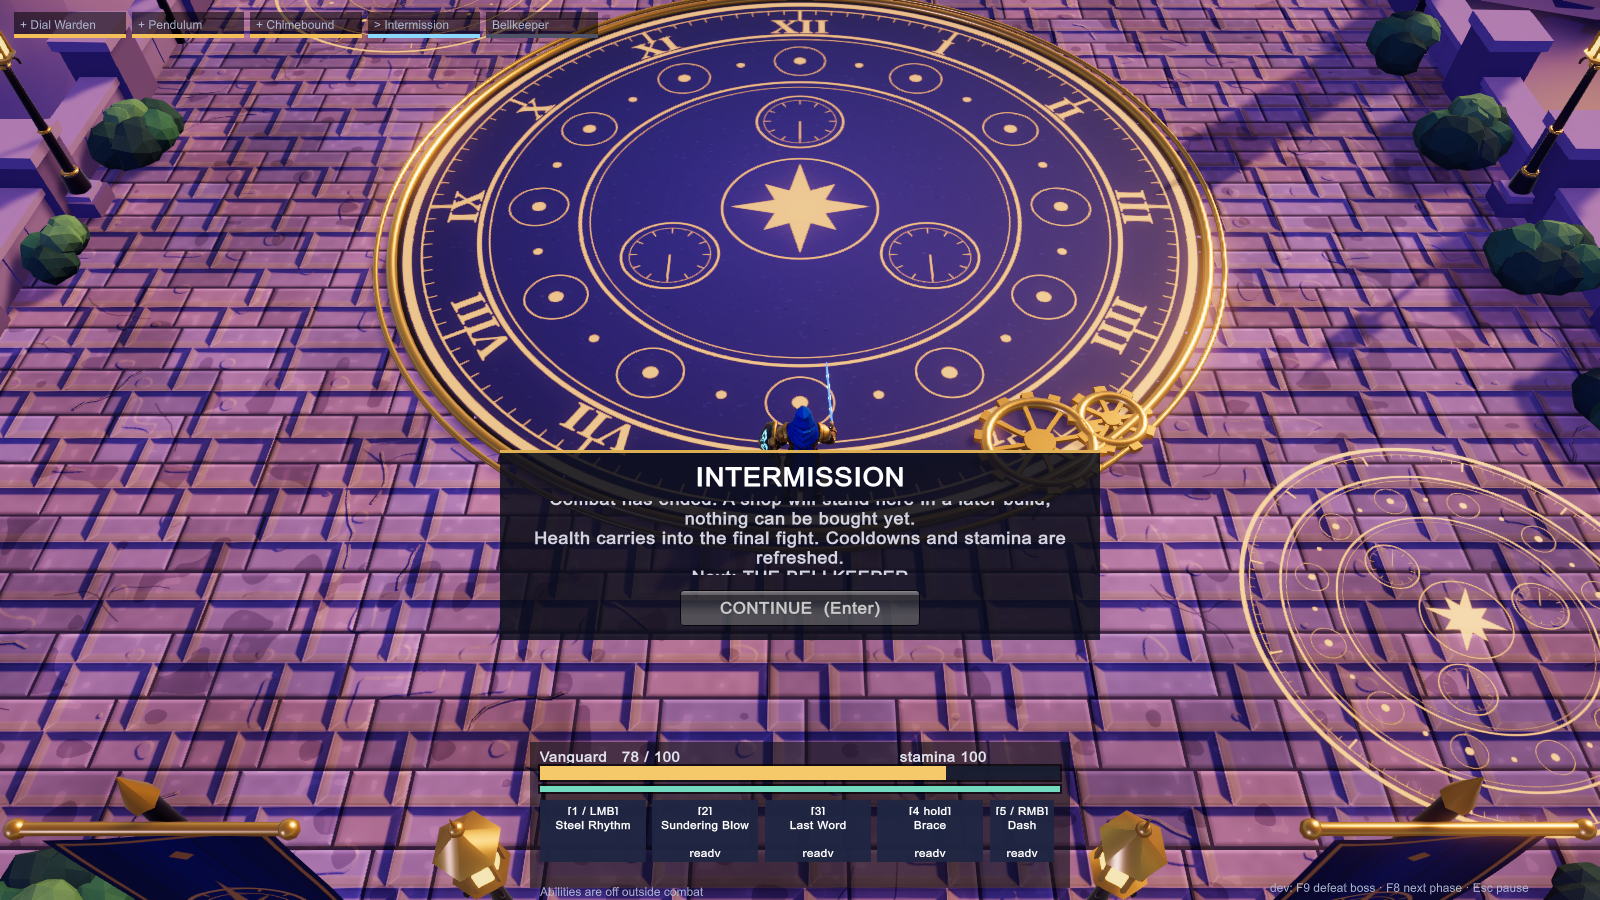
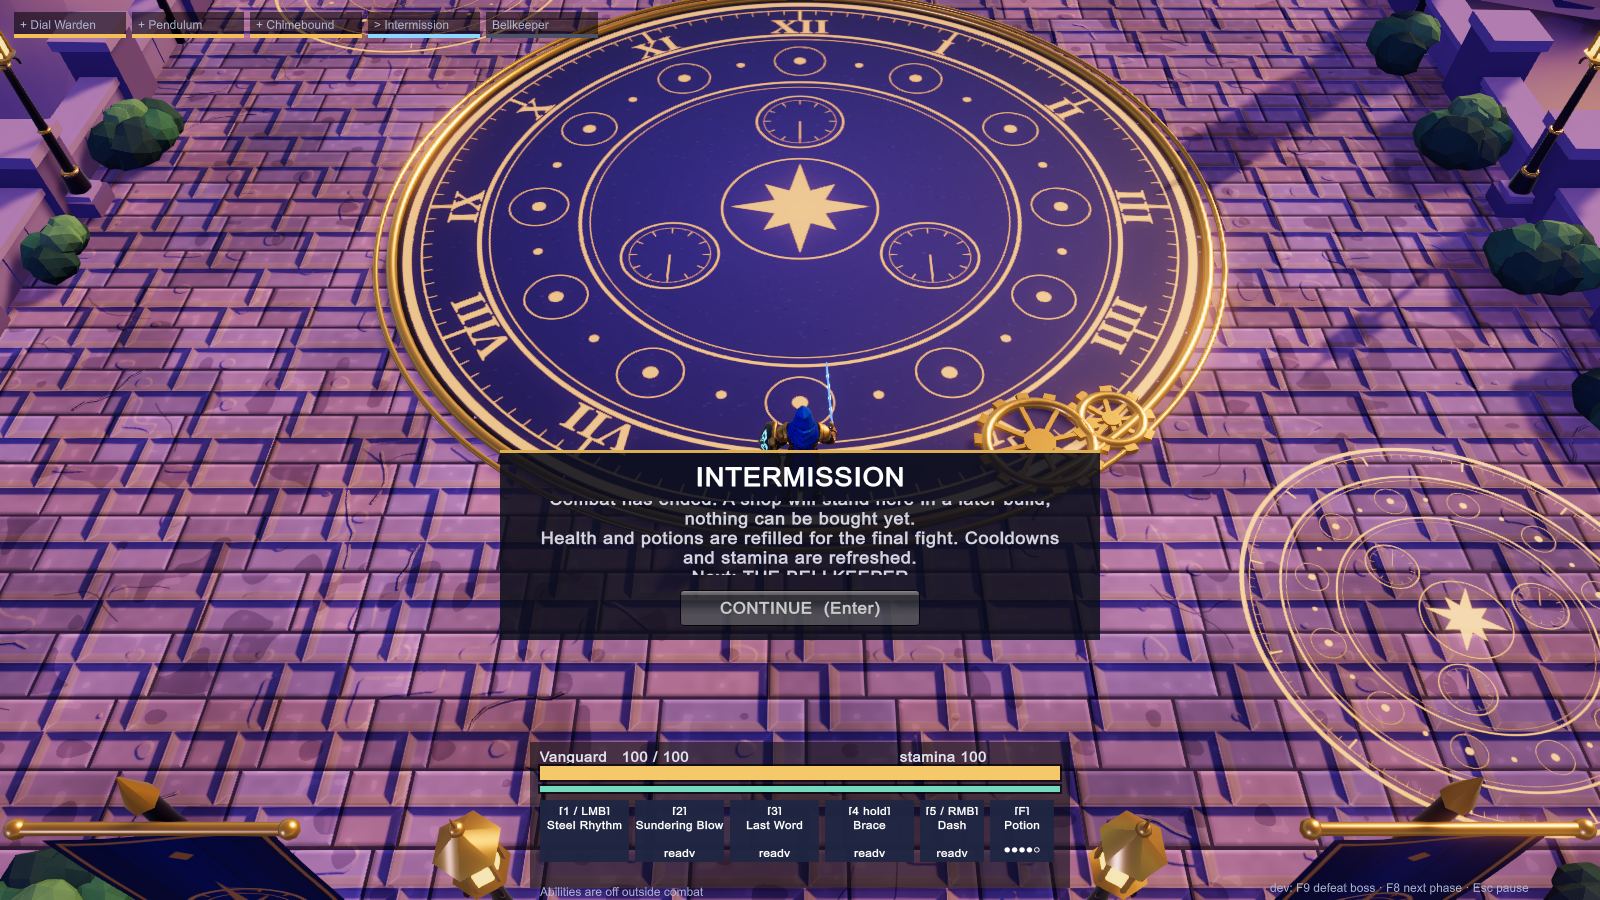
Run loop: potions and the health policy (refill health each boss, potions carry, both refill for the final boss)
Chzy18's decision, Oct 21: dodging does not grant immunity (no change). Health refills before every boss after the
first; potions (F, +40 HP, 1 s lockout, 5) carry over between minibosses; health and potions refill before the
area's final boss. HUD potion slot and tooltip, menu/intermission text, autotest checks (88/88 in the Windows build).

diff --git a/unity/Assets/LastBell/Run/RunHud.cs b/unity/Assets/LastBell/Run/RunHud.cs
@@ -98,7 +98,7 @@ namespace LastBell.Run
                 {
                     var r = Panel(560, 150, h * 0.62f);
                     GUI.Label(new Rect(r.x, r.y + 10, r.width, 34), d.Mode == RunMode.Practice ? "PRACTICE — " + RunDirector.SlotNames[SlotIndex(d.Encounter)] : "PREPARATION", big);
-                    GUI.Label(new Rect(r.x + 20, r.y + 46, r.width - 40, 44), d.Mode == RunMode.Practice ? "Practice never advances the run." : "Three minibosses, an intermission, then the Bellkeeper. Health carries between fights. Move around freely.", mid);
+                    GUI.Label(new Rect(r.x + 20, r.y + 46, r.width - 40, 44), d.Mode == RunMode.Practice ? "Practice never advances the run." : "Three minibosses, an intermission, then the Bellkeeper. Health refills before each boss; potions carry over until the final boss refills them.", mid);
                     if (GUI.Button(new Rect(r.x + r.width / 2 - 110, r.y + 98, 220, 36), "READY  (Enter)", btn)) d.RequestReady();
                     break;
                 }
@@ -125,7 +125,7 @@ namespace LastBell.Run
                 {
                     var r = Panel(600, 190, h * 0.5f);
                     GUI.Label(new Rect(r.x, r.y + 10, r.width, 34), "INTERMISSION", big);
-                    GUI.Label(new Rect(r.x + 20, r.y + 48, r.width - 40, 80), "Combat has ended. A shop will stand here in a later build; nothing can be bought yet.\nHealth carries into the final fight. Cooldowns and stamina are refreshed.\nNext: THE BELLKEEPER", mid);
+                    GUI.Label(new Rect(r.x + 20, r.y + 48, r.width - 40, 80), "Combat has ended. A shop will stand here in a later build; nothing can be bought yet.\nHealth and potions are refilled for the final fight. Cooldowns and stamina are refreshed.\nNext: THE BELLKEEPER", mid);
                     if (GUI.Button(new Rect(r.x + r.width / 2 - 120, r.y + 140, 240, 36), "CONTINUE  (Enter)", btn)) d.RequestContinue();
                     break;
                 }
@@ -166,8 +166,8 @@ namespace LastBell.Run
             for (int i = 0; i < 4; i++)
                 if (GUI.Button(new Rect(r.x + 30 + i * 166, r.y + 300, 160, 36), names[i], btn)) d.StartPractice(RunDirector.Classes[menuClass], i);
             GUI.Label(new Rect(r.x + 30, r.y + 350, r.width - 60, 120),
-                "Controls: WASD move · mouse aims · 1 / LMB basic · 2 3 4 class actions · 6 Mending Chorus (Chimesinger) · 5 / RMB dash · Space jump · Shift sprint · Esc pause\n" +
-                "Movement stamina: sprint, jump and dash share one bar. No invincibility frames. Health carries across the run; retry restarts at the first miniboss.\n" +
+                "Controls: WASD move · mouse aims · 1 / LMB basic · 2 3 4 class actions · 6 Mending Chorus (Chimesinger) · 5 / RMB dash · F potion · Space jump · Shift sprint · Esc pause\n" +
+                "Movement stamina: sprint, jump and dash share one bar. No invincibility frames (dodging does not make you immune). F drinks a potion (+40 HP).\nHealth refills before each boss; potions carry over between minibosses and refill before the final boss. Retry restarts at the first miniboss.\n" +
                 "Minibosses are labelled stand-ins; the Bellkeeper uses its model. Dev keys in combat: F9 defeat boss, F8 next phase.", tiny);
             if (GUI.Button(new Rect(r.x + r.width - 130, r.y + r.height - 50, 100, 36), "Quit", btn)) Application.Quit();
         }
@@ -253,7 +253,7 @@ namespace LastBell.Run
             Bar(new Rect(x, y + 16, pw, 14), (float)p.Hp / PlayerController.MaxHp, new Color(0.96f, 0.79f, 0.41f));
             Bar(new Rect(x, y + 36, pw, 6), p.Stamina / PlayerController.MaxStamina, new Color(0.45f, 0.85f, 0.75f));
             GUI.Label(new Rect(x + pw - 160, y - 4, 160, 20), "stamina " + Mathf.RoundToInt(p.Stamina), small);
-            var k = p.Kit; int n = k.SlotNames.Length; float sw = (pw - (n) * 6 - 70) / n; int hover = -1;
+            var k = p.Kit; int n = k.SlotNames.Length; float sw = (pw - (n) * 6 - 140) / n; int hover = -1;
             for (int i = 0; i < n; i++)
             {
                 var r = new Rect(x + i * (sw + 6), y + 50, sw, 62);
@@ -270,11 +270,17 @@ namespace LastBell.Run
             GUI.Label(new Rect(dr.x, dr.y + 2, dr.width, 16), "[5 / RMB]", slot);
             GUI.Label(new Rect(dr.x, dr.y + 16, dr.width, 30), p.ClassName == "Chimesinger" ? "Harmonic Step" : "Dash", slot);
             GUI.Label(new Rect(dr.x, dr.y + 44, dr.width, 16), p.Stamina >= PlayerController.DashCost ? "ready" : "stamina", slot);
+            var pr = new Rect(dr.x + 70, y + 50, 64, 62);
+            Rect(pr, new Color(0.12f, 0.15f, 0.26f, 0.95f));
+            GUI.Label(new Rect(pr.x, pr.y + 2, pr.width, 16), "[F]", slot);
+            GUI.Label(new Rect(pr.x, pr.y + 16, pr.width, 30), "Potion", slot);
+            GUI.Label(new Rect(pr.x, pr.y + 40, pr.width, 20), new string('●', p.Potions) + new string('○', PlayerController.MaxPotions - p.Potions), slot);
             string cs = k.ClassState();
             if (!string.IsNullOrEmpty(cs)) GUI.Label(new Rect(x, y + 116, pw, 20), cs, small);
             string hint = d.State == RunState.Combat ? "WASD move · mouse aim · Space jump · Shift sprint · Tab damage meter · hover a skill for details" : "Abilities are off outside combat";
             GUI.Label(new Rect(x, y + 132, pw, 18), hint, tiny);
-            if (dr.Contains(Event.current.mousePosition)) Tooltip(x, y, "DASH  [5 / RMB]\nShort burst (3 m in 0.2 s) in the move direction. Costs 30 stamina; sprint and jump share the bar.\nNo invincibility: get out of the shape before it resolves. Cancels basic attacks and unreleased windups.");
+            if (pr.Contains(Event.current.mousePosition)) Tooltip(x, y, $"POTION  [F]\n+{PlayerController.PotionHeal} HP, 1 s between drinks. {p.Potions}/{PlayerController.MaxPotions} left.\nPotions carry over between minibosses; health and potions refill before the final boss.");
+            else if (dr.Contains(Event.current.mousePosition)) Tooltip(x, y, "DASH  [5 / RMB]\nShort burst (3 m in 0.2 s) in the move direction. Costs 30 stamina; sprint and jump share the bar.\nNo invincibility: get out of the shape before it resolves. Cancels basic attacks and unreleased windups.");
             else if (hover >= 0) Tooltip(x, y, k.Tooltip(hover));
             if (ShowMeter && d.World != null) Meter(Screen.width - 330, 150, d.World.EncounterMeter, "DAMAGE · this encounter", (d.World.Tick - d.World.SegmentStartTick) / 60f);
         }

diff --git a/unity/Assets/LastBell/Run/RunAutoTest.cs b/unity/Assets/LastBell/Run/RunAutoTest.cs
@@ -30,16 +30,16 @@ namespace LastBell.Run
         sealed class Bot : IInputSource
         {
             public Vector3 MoveWorld; public Vector3 Aim; public bool Sprint;
-            public bool[] press = new bool[5]; public bool[] hold = new bool[5]; public bool dash, jump;
+            public bool[] press = new bool[5]; public bool[] hold = new bool[5]; public bool dash, jump, potion;
             public PlayerInput Read(PlayerController who)
             {
-                var r = new PlayerInput { Aim = Aim, Sprint = Sprint, Dash = dash, Jump = jump,
+                var r = new PlayerInput { Aim = Aim, Sprint = Sprint, Dash = dash, Jump = jump, Potion = potion,
                     P0 = press[0], P1 = press[1], P2 = press[2], P3 = press[3], P4 = press[4],
                     H0 = hold[0] || press[0], H1 = hold[1], H2 = hold[2], H3 = hold[3] || press[3], H4 = hold[4] };
                 var cam = Camera.main; var fwd = cam ? Sim.Flat(cam.transform.forward).normalized : Vector3.forward;
                 var right = Vector3.Cross(Vector3.up, fwd);
                 r.Move = Vector2.ClampMagnitude(new Vector2(Vector3.Dot(MoveWorld, right), Vector3.Dot(MoveWorld, fwd)), 1);
-                for (int i = 0; i < 5; i++) press[i] = false; dash = jump = false;
+                for (int i = 0; i < 5; i++) press[i] = false; dash = jump = potion = false;
                 return r;
             }
             public void Clear() { MoveWorld = Vector3.zero; Sprint = false; for (int i = 0; i < 5; i++) { press[i] = hold[i] = false; } dash = jump = false; }
@@ -219,6 +219,14 @@ namespace LastBell.Run
             Check("Steel Rhythm hit 3 granted Opening", sawOpening);
             yield return VanguardShowcase();
             yield return VanguardKitChecks();
+            // potions: drink one in encounter 1; it must still be spent in encounter 2 while health is full again
+            yield return Until(() => d.World.Hazards.Count == 0, 6, "quiet for the potion check"); d.Boss.Halt();
+            yield return Until(() => d.Player.Stunned == 0, 2, "hit-stun over");   // drinking is blocked while stunned
+            d.Player.DebugSetHp(50); bot.potion = true; yield return Wait(0.1f);
+            Check("F potion heals +40 and spends one", d.Player.Hp == 90 && d.Player.Potions == PlayerController.MaxPotions - 1, $"hp {d.Player.Hp}, potions {d.Player.Potions}");
+            bot.potion = true; yield return Wait(0.1f);
+            Check("potion lockout: no second drink within 1 s", d.Player.Potions == PlayerController.MaxPotions - 1);
+            d.Player.DebugSetHp(37); d.Boss.BeginCombat();
             yield return KillDuringWindup("dial_warden");
             yield return Until(() => d.State == RunState.Intro && d.Encounter == 1, 6, "intro 2");
             Check("encounter 1 ended exactly once", d.EncounterEnds == 1 && d.EncountersCleared == 1);
@@ -226,6 +234,7 @@ namespace LastBell.Run
             Check("previous boss removed", FindObjectsByType<BossEncounter>().Length == 1);
             yield return Until(() => d.State == RunState.Combat, 4, "combat 2");
             Check("encounter 2 is the Pendulum Sentinel", d.Boss is PendulumSentinel);
+            Check("health refilled before miniboss 2; potions carried over", d.Player.Hp == PlayerController.MaxHp && d.Player.Potions == PlayerController.MaxPotions - 1, $"hp {d.Player.Hp}, potions {d.Player.Potions}");
             yield return LowPendulumCheck();
             yield return KillDuringWindup("pendulum_sentinel");
             yield return Until(() => d.State == RunState.Combat && d.Encounter == 2, 10, "combat 3");
@@ -236,13 +245,14 @@ namespace LastBell.Run
             yield return Until(() => d.State == RunState.Intermission, 6, "intermission");
             yield return Wait(1.5f);
             Check("intermission is free of hazards and bosses", d.World.Hazards.Count == 0 && d.Boss == null && !d.World.CombatActive);
-            int hpInter = d.Player.Hp;
+            int potInter = d.Player.Potions;
+            Check("potions still carried at the intermission", potInter == PlayerController.MaxPotions - 1, "potions " + potInter);
             yield return Shot("intermission");
             int starts1 = d.EncounterStarts;
             for (int i = 0; i < 4; i++) { d.RequestContinue(); d.RequestContinue(); d.RequestReady(); yield return null; }
             yield return Until(() => d.State == RunState.Combat, 4, "final combat");
             Check("repeated Continue starts exactly one final encounter", d.EncounterStarts == starts1 + 1 && d.Boss is BellkeeperEncounter);
-            Check("health carries into the final fight", d.Player.Hp == hpInter);
+            Check("health and potions refilled for the final boss", d.Player.Hp == PlayerController.MaxHp && d.Player.Potions == PlayerController.MaxPotions, $"hp {d.Player.Hp}, potions {d.Player.Potions}");
             d.Player.DebugSetHp(PlayerController.MaxHp);   // test setup: the rest of this run checks phases, not survival
             var bk = (BellkeeperEncounter)d.Boss;
             Check("Bellkeeper uses its model", bk.Presenter != null && bk.Presenter.HasModel);
@@ -348,7 +358,7 @@ namespace LastBell.Run
         void FreshRunChecks(string when)
         {
             var p = d.Player;
-            Check($"fresh run {when}: full health/stamina, encounter 1", p.Hp == PlayerController.MaxHp && Mathf.Approximately(p.Stamina, PlayerController.MaxStamina) && d.Encounter == 0 && d.EncountersCleared == 0);
+            Check($"fresh run {when}: full health/stamina/potions, encounter 1", p.Hp == PlayerController.MaxHp && p.Potions == PlayerController.MaxPotions && Mathf.Approximately(p.Stamina, PlayerController.MaxStamina) && d.Encounter == 0 && d.EncountersCleared == 0);
             bool cdsClear = true; for (int i = 0; i < p.Kit.SlotNames.Length; i++) cdsClear &= p.Kit.Cooldown01(i) <= 0;
             Check($"fresh run {when}: cooldowns and class state reset", cdsClear && string.IsNullOrEmpty(p.Kit.ClassState()) || (p.Kit is ChimesingerKit ck && ck.Harmony == 0 && !ck.Bell));
             Check($"fresh run {when}: no stale bosses, hazards or projectiles", FindObjectsByType<BossEncounter>().Length == 0 && d.World.Hazards.Count == 0 && d.World.Projectiles.Count == 0 && d.Boss == null);

diff --git a/unity/Assets/LastBell/Run/Combat/PlayerController.cs b/unity/Assets/LastBell/Run/Combat/PlayerController.cs
@@ -10,7 +10,7 @@ namespace LastBell.Run
         public const int Slots = 5;   // 1 Basic, 2/3/4 class actions, 6 = Chimesinger's Mending Chorus
         public Vector2 Move;          // camera-relative WASD, x right / y up the screen
         public Vector3 Aim;           // cursor on the floor (world)
-        public bool Sprint, Jump, Dash;
+        public bool Sprint, Jump, Dash, Potion;
         public bool P0, P1, P2, P3, P4;   // pressed this tick
         public bool H0, H1, H2, H3, H4;   // held
         public bool Pressed(int i) => i switch { 0 => P0, 1 => P1, 2 => P2, 3 => P3, _ => P4 };
@@ -43,6 +43,7 @@ namespace LastBell.Run
             latched.P4 |= kb.digit6Key.wasPressedThisFrame;
             latched.Dash |= kb.digit5Key.wasPressedThisFrame || (m != null && m.rightButton.wasPressedThisFrame);
             latched.Jump |= kb.spaceKey.wasPressedThisFrame;
+            latched.Potion |= kb.fKey.wasPressedThisFrame;
         }
 
         public PlayerInput Read(PlayerController who)
@@ -79,6 +80,8 @@ namespace LastBell.Run
         public const float SprintCost = 25f, JumpCost = 20f, DashCost = 30f, Regen = 20f, RegenDelay = 0.75f;
         public const float DashDistance = 3f, JumpHeight = 0.8f;
         public const int DashTicks = 12, DashRecover = 4, JumpTicks = 36, KnockTicks = 9;
+        // Potions (F): 5 per refill, +40 HP each, 1 s between drinks (values from the earlier test fight).
+        public const int MaxPotions = 5, PotionHeal = 40, PotionLockout = 60;
 
         public string ClassName { get; private set; }
         public CombatWorld World { get; private set; }
@@ -90,6 +93,9 @@ namespace LastBell.Run
 
         public int Hp { get; private set; } = MaxHp;
         public float Stamina { get; private set; } = MaxStamina;
+        public int Potions { get; private set; } = MaxPotions;
+        public int PotionsDrunk { get; private set; }
+        int sincePotion = 999;
         public bool Down { get; private set; }
         public float Height { get; private set; }
         public bool Airborne => jumpTick >= 0;
@@ -116,14 +122,32 @@ namespace LastBell.Run
             return pc;
         }
 
-        // Fresh state between encounters: stamina and cooldowns reset, class setup cleared. Health carries over
-        // (single-arena plan §6 proposal; provisional, see handoff).
+        // Fresh state between encounters: stamina and cooldowns reset, class setup cleared. Health and potions are
+        // handled by RefreshHealth (the director calls it per the run's health policy).
         public void PrepareForEncounter(Vector3 pos, float yaw)
         {
             transform.SetPositionAndRotation(pos, Quaternion.Euler(0, yaw, 0));
             Stamina = MaxStamina; dashTick = 0; dashLock = 0; jumpTick = -1; Height = 0; stun = 0; knockTick = 0; sinceSpend = 999;
             Kit.ResetAll();
             Presenter.ResetPose();
+        }
+
+        // Health policy (Chzy18, Oct 21): full health before every boss after the first; potions carry over between
+        // minibosses; health AND potions refill before the area's final boss.
+        public void RefreshHealth(bool refillPotions)
+        {
+            if (Down) return;
+            Hp = MaxHp;
+            if (refillPotions) Potions = MaxPotions;
+        }
+
+        bool DrinkPotion()
+        {
+            if (Down || Potions == 0 || Hp >= MaxHp || sincePotion < PotionLockout) return false;
+            Potions--; PotionsDrunk++; sincePotion = 0;
+            Heal(PotionHeal);
+            World.BossFx.PotionHeal(transform);
+            return true;
         }
 
         public void Heal(int amount)
@@ -169,10 +193,11 @@ namespace LastBell.Run
         public void Step()
         {
             var inp = Input != null && MovementEnabled ? Input.Read(this) : default;
-            if (!AbilitiesEnabled) { inp.P0 = inp.P1 = inp.P2 = inp.P3 = inp.P4 = false; inp.H0 = inp.H1 = inp.H2 = inp.H3 = inp.H4 = false; inp.Dash = inp.Jump = false; }
+            if (!AbilitiesEnabled) { inp.P0 = inp.P1 = inp.P2 = inp.P3 = inp.P4 = false; inp.H0 = inp.H1 = inp.H2 = inp.H3 = inp.H4 = false; inp.Dash = inp.Jump = inp.Potion = false; }
             Last = inp;
             if (Down) { Presenter.Tick(this); return; }
-            sinceSpend++;
+            sinceSpend++; sincePotion++;
+            if (inp.Potion && stun == 0) DrinkPotion();   // usable while moving or mid-action, not while stunned
             if (sinceSpend > Sim.Ticks(RegenDelay)) Stamina = Mathf.Min(MaxStamina, Stamina + Regen * Sim.Dt);
 
             var cam = Camera.main;

diff --git a/unity/Assets/LastBell/Run/RunDirector.cs b/unity/Assets/LastBell/Run/RunDirector.cs
@@ -167,6 +167,7 @@ namespace LastBell.Run
             };
             World.Boss = Boss;
             World.CombatActive = false;
+            if (index > 0) Player.RefreshHealth(refillPotions: index == 3);   // health policy: see PlayerController.RefreshHealth
             Player.PrepareForEncounter(PlayerSocket, 180);
             Player.AbilitiesEnabled = false;
             Go(RunState.Intro);

diff --git a/docs/run-loop/README.md b/docs/run-loop/README.md
@@ -27,6 +27,7 @@ All of it runs in the one key-art arena: `Assets/LastBell/Run/RunArena.unity`, a
 | 6 | Chimesinger: Mending Chorus |
 | 5 / RMB | dash (Clockstep / Harmonic Step) |
 | Space / Shift | jump / sprint (shared movement stamina) |
+| F | drink a potion (+40 HP) |
 | Enter | Ready / Continue / Start run |
 | Tab | damage meter (this encounter) |
 | Esc | pause |
@@ -39,7 +40,8 @@ Gamepads aren't read: the user's rudder pedals register as a controller. UI clic
 
 - **Movement** (Game-Design delegated defaults): walk 6 m/s, sprint 9 m/s, dash 3 m in 0.2 s, jump about 0.8 m over 0.6 s. Stamina 100: sprint 25/s, jump 20, dash 30, regenerates 20/s after 0.75 s.
 - **No invincibility frames** anywhere. A hazard instance hits a player at most once, which replaces the old 0.75 s post-hit immunity. A hit causes 0.25 s stun and 1.5 m knockback (spec v0.2 §5).
-- **Between encounters:** health **carries over** (single-arena plan §6 proposal, provisional). Stamina, cooldowns and class state (Opening, Harmony, bells) reset, and the player returns to the start socket. The old test fight's potions are **not** in the run, since healing is deferred by the design and potions are an unapproved healing source.
+- **Health and potions (Chzy18, Oct 21):** health refills before every boss after the first. Potions (F: +40 HP, 1 s apart, 5 per refill) carry over between the minibosses, and both health and potions refill before the area's final boss (the Bellkeeper). A fresh run starts full. Stamina, cooldowns and class state (Opening, Harmony, bells) reset before each encounter.
+- **Dodging does not make you immune** (Chzy18, Oct 21; settles PF-01): a dash only avoids a hit by leaving the shape before it resolves.
 - **Defeat precedence:** if the player goes down on the same tick the boss dies, defeat wins (plan §10 / spec §4).
 - **Bellkeeper:** spec v0.2 Steady Ticking schedule. D1–D6 are applied provisionally: 6.5 m sweep, damage 30/25/30/15 (45 for the Final Toll sweep), phases at 70 % and 35 % queued to block boundaries.
 - **Boss HP is shortened for this test build:** minibosses 1500 / 1700 / 1700, Bellkeeper 3600. Design durations are 60–105 s and 3–4 min, so tuning is still open.
@@ -60,12 +62,12 @@ Gamepads aren't read: the user's rudder pedals register as a controller. UI clic
 ## Tests actually run (evidence in `run-loop-evidence/`, not committed)
 
 - **Windows player build:** succeeded seven times tonight (0 errors). The packaged exe launched and ran the full autotest each time.
-- **Autotest in the packaged build, final run (build 7): 84/84 passed, 0 errors logged.** Copy: [media/autotest-report-build7.txt](media/autotest-report-build7.txt). It covers:
+- **Autotest in the packaged build, latest run (build 9, with potions and the health policy): 88/88 passed, 0 errors logged.** Copy: [media/autotest-report-build9.txt](media/autotest-report-build9.txt). Build 7 (84/84) is kept for the media. It covers:
   - boot to menu in the arena
   - repeated Ready, Continue and Retry presses (each starts exactly one transition)
   - all four encounter slots, each started and ended exactly once
   - boss death during a windup on all four bosses (pending hazards cancelled in the same tick, no damage or resolve afterwards, boss collision off)
-  - intermission free of hazards; health carried into the final fight
+  - intermission free of hazards; a potion heals +40 with a 1 s lockout; health refills before miniboss 2 while the spent potion stays spent; health and potions both refill for the final boss
   - Bellkeeper phase 2 and 3 transitions with the PhaseShift and Defeat clips playing
   - victory after slot 4; retry after victory and after defeat both give a fresh run (HP/stamina full, cooldowns reset, no stale bosses, hazards or projectiles, one player)
   - real-hazard defeat with its cause; return to menu from pause leaves no run objects
@@ -95,11 +97,11 @@ Screens and videos: `run-loop-evidence/autotest-7/*.png` and `*.mp4` (vanguard_k
   Feel still needs a human playtest.
 - **PF-06** death recap: the last six hits with the killing blow marked.
 - **PF-07** first pass: a per-ability damage meter (damage, share, hits, largest hit, DPS) for the encounter (Tab) and the run (results). This is not Details! parity: no history segments, charts or damage-taken breakdown yet.
-- **PF-01** (dodge doesn't negate damage) is **not changed**. The current rules say no iframes, so a dash only helps if it carries you out of the shape before it resolves. The 3 m dash plus walking does that within the spec's windows. Whether dashing should grant immunity is a design decision for Risxhb/Chzy18.
+- **PF-01** (dodge doesn't negate damage): **settled by Chzy18 (Oct 21): dodging does not make you immune.** No change; a dash avoids a hit only by carrying you out of the shape before it resolves.
 
 ## Provisional decisions to review
 
-1. Health carries across encounters with no intermission heal, and potions are removed from the run.
+1. ~~Health policy~~: decided by Chzy18 (Oct 21). Health refills before each boss after the first; potions carry over between minibosses; both refill before the final boss.
 2. Boss HP is shortened for testing.
 3. Bellkeeper D1/D2 values are applied before review.
 4. Chimesinger tuning is entirely prototype: notes 16 dmg, Bellstrike 40 dmg with 2 charges and 6 s recharge, bell lasts 8 s, strength ×1.5 up to twice, Refrain 34 dmg with echoes worth 60 % (4 s cooldown), Crescendo 12 per Harmony + 50 bell + echoes (5 s cooldown), Chorus +30 HP within 6 m (15 s cooldown).
@@ -119,7 +121,7 @@ Screens and videos: `run-loop-evidence/autotest-7/*.png` and `*.mp4` (vanguard_k
 
 ## Next steps (highest priority first)
 
-1. **Human playtest** of this build: feel (PF-05), Brace (PF-02) and readability. Decide PF-01 dodge immunity, the health-between-fights policy and the Bellkeeper D1–D6.
+1. **Human playtest** of this build: feel (PF-05), Brace (PF-02) and readability. Decide the Bellkeeper D1–D6. (PF-01 and the health policy were settled on Oct 21.)
 2. Swap in the **fixed Chimesinger GLB** when the Chimesinger session delivers it, then add its Hit / Down / GetUp.
 3. Author the **three miniboss** models and schedules (encounter lane #8), replacing the stand-ins without changing the run flow.
 4. Tune boss HP and damage toward the design fight lengths, and run the escape checker on the miniboss schedules.
